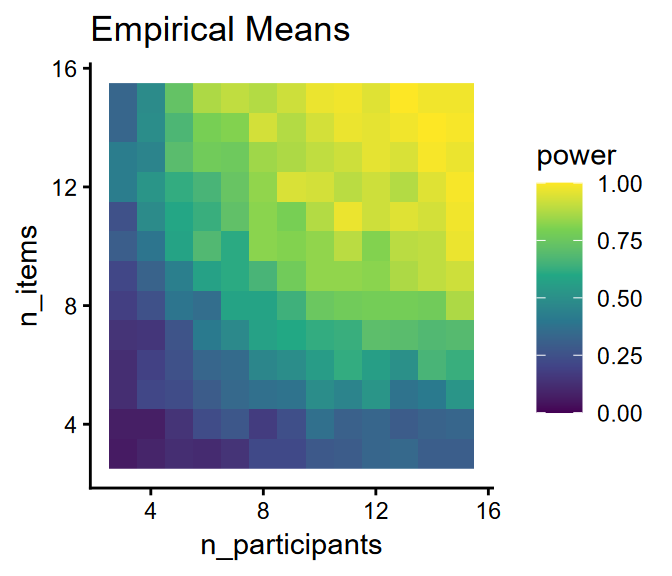
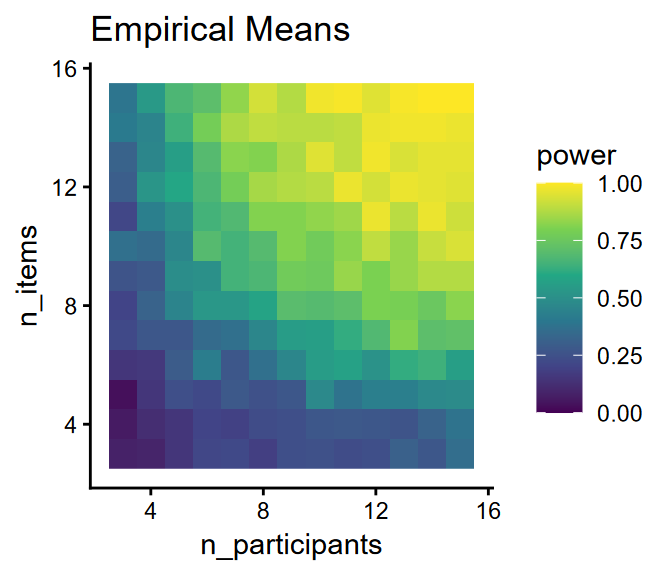
scale at level of items and fix typo

diff --git a/docs/05-power_analyses.html b/docs/05-power_analyses.html
@@ -549,27 +549,27 @@ e_{ip} &amp;\sim \mathcal{N}(0, \sigma_e)
 <span id="cb7-11"><a href="#cb7-11" aria-hidden="true" tabindex="-1"></a>  items <span class="ot">&lt;-</span> <span class="fu">tibble</span>(</span>
 <span id="cb7-12"><a href="#cb7-12" aria-hidden="true" tabindex="-1"></a>    <span class="at">i_id =</span> <span class="dv">1</span><span class="sc">:</span>n_items,</span>
 <span id="cb7-13"><a href="#cb7-13" aria-hidden="true" tabindex="-1"></a>    <span class="at">zipf =</span> <span class="fu">runif</span>(n_items, <span class="fl">1.5</span>, <span class="fl">7.5</span>),</span>
-<span id="cb7-14"><a href="#cb7-14" aria-hidden="true" tabindex="-1"></a>    <span class="at">I_0i =</span> <span class="fu">rnorm</span>(n_items, <span class="dv">0</span>, s_I0)</span>
-<span id="cb7-15"><a href="#cb7-15" aria-hidden="true" tabindex="-1"></a>  )</span>
-<span id="cb7-16"><a href="#cb7-16" aria-hidden="true" tabindex="-1"></a>  </span>
-<span id="cb7-17"><a href="#cb7-17" aria-hidden="true" tabindex="-1"></a>  <span class="co"># simulate participants</span></span>
-<span id="cb7-18"><a href="#cb7-18" aria-hidden="true" tabindex="-1"></a>  participants <span class="ot">&lt;-</span> <span class="fu">rnorm_multi</span>(</span>
-<span id="cb7-19"><a href="#cb7-19" aria-hidden="true" tabindex="-1"></a>    <span class="at">n =</span> n_participants,</span>
-<span id="cb7-20"><a href="#cb7-20" aria-hidden="true" tabindex="-1"></a>    <span class="at">vars =</span> <span class="dv">2</span>,</span>
-<span id="cb7-21"><a href="#cb7-21" aria-hidden="true" tabindex="-1"></a>    <span class="at">varnames =</span> <span class="fu">c</span>(<span class="st">"P_0p"</span>, <span class="st">"P_1p"</span>),</span>
-<span id="cb7-22"><a href="#cb7-22" aria-hidden="true" tabindex="-1"></a>    <span class="at">mu =</span> <span class="fu">c</span>(<span class="dv">0</span>, <span class="dv">0</span>),</span>
-<span id="cb7-23"><a href="#cb7-23" aria-hidden="true" tabindex="-1"></a>    <span class="at">sd =</span> <span class="fu">c</span>(s_P0, s_P1),</span>
-<span id="cb7-24"><a href="#cb7-24" aria-hidden="true" tabindex="-1"></a>    <span class="at">r =</span> r_P</span>
-<span id="cb7-25"><a href="#cb7-25" aria-hidden="true" tabindex="-1"></a>  ) <span class="sc">|&gt;</span></span>
-<span id="cb7-26"><a href="#cb7-26" aria-hidden="true" tabindex="-1"></a>    <span class="fu">mutate</span>(<span class="at">p_id =</span> <span class="dv">1</span><span class="sc">:</span>n_participants)</span>
-<span id="cb7-27"><a href="#cb7-27" aria-hidden="true" tabindex="-1"></a>  </span>
-<span id="cb7-28"><a href="#cb7-28" aria-hidden="true" tabindex="-1"></a>  <span class="co"># generate trials</span></span>
-<span id="cb7-29"><a href="#cb7-29" aria-hidden="true" tabindex="-1"></a>  trials <span class="ot">&lt;-</span> <span class="fu">crossing</span>(items, participants) <span class="sc">|&gt;</span></span>
-<span id="cb7-30"><a href="#cb7-30" aria-hidden="true" tabindex="-1"></a>    <span class="fu">mutate</span>(</span>
-<span id="cb7-31"><a href="#cb7-31" aria-hidden="true" tabindex="-1"></a>      <span class="at">e_ip =</span> <span class="fu">rnorm</span>(<span class="fu">n</span>(), <span class="dv">0</span>, s_e),</span>
-<span id="cb7-32"><a href="#cb7-32" aria-hidden="true" tabindex="-1"></a>      <span class="at">log_rt =</span> b_0 <span class="sc">+</span> I_0i <span class="sc">+</span> P_0p <span class="sc">+</span> (b_1 <span class="sc">+</span> P_1p) <span class="sc">*</span> zipf <span class="sc">+</span> e_ip,</span>
-<span id="cb7-33"><a href="#cb7-33" aria-hidden="true" tabindex="-1"></a>      <span class="co"># also include a scaled version of the zipf variable</span></span>
-<span id="cb7-34"><a href="#cb7-34" aria-hidden="true" tabindex="-1"></a>      <span class="at">zipf_sc =</span> <span class="fu">scale</span>(zipf)</span>
+<span id="cb7-14"><a href="#cb7-14" aria-hidden="true" tabindex="-1"></a>    <span class="at">I_0i =</span> <span class="fu">rnorm</span>(n_items, <span class="dv">0</span>, s_I0),</span>
+<span id="cb7-15"><a href="#cb7-15" aria-hidden="true" tabindex="-1"></a>    <span class="co"># also include a scaled version of the zipf variable</span></span>
+<span id="cb7-16"><a href="#cb7-16" aria-hidden="true" tabindex="-1"></a>    <span class="at">zipf_sc =</span> <span class="fu">scale</span>(zipf)</span>
+<span id="cb7-17"><a href="#cb7-17" aria-hidden="true" tabindex="-1"></a>  )</span>
+<span id="cb7-18"><a href="#cb7-18" aria-hidden="true" tabindex="-1"></a>  </span>
+<span id="cb7-19"><a href="#cb7-19" aria-hidden="true" tabindex="-1"></a>  <span class="co"># simulate participants</span></span>
+<span id="cb7-20"><a href="#cb7-20" aria-hidden="true" tabindex="-1"></a>  participants <span class="ot">&lt;-</span> <span class="fu">rnorm_multi</span>(</span>
+<span id="cb7-21"><a href="#cb7-21" aria-hidden="true" tabindex="-1"></a>    <span class="at">n =</span> n_participants,</span>
+<span id="cb7-22"><a href="#cb7-22" aria-hidden="true" tabindex="-1"></a>    <span class="at">vars =</span> <span class="dv">2</span>,</span>
+<span id="cb7-23"><a href="#cb7-23" aria-hidden="true" tabindex="-1"></a>    <span class="at">varnames =</span> <span class="fu">c</span>(<span class="st">"P_0p"</span>, <span class="st">"P_1p"</span>),</span>
+<span id="cb7-24"><a href="#cb7-24" aria-hidden="true" tabindex="-1"></a>    <span class="at">mu =</span> <span class="fu">c</span>(<span class="dv">0</span>, <span class="dv">0</span>),</span>
+<span id="cb7-25"><a href="#cb7-25" aria-hidden="true" tabindex="-1"></a>    <span class="at">sd =</span> <span class="fu">c</span>(s_P0, s_P1),</span>
+<span id="cb7-26"><a href="#cb7-26" aria-hidden="true" tabindex="-1"></a>    <span class="at">r =</span> r_P</span>
+<span id="cb7-27"><a href="#cb7-27" aria-hidden="true" tabindex="-1"></a>  ) <span class="sc">|&gt;</span></span>
+<span id="cb7-28"><a href="#cb7-28" aria-hidden="true" tabindex="-1"></a>    <span class="fu">mutate</span>(<span class="at">p_id =</span> <span class="dv">1</span><span class="sc">:</span>n_participants)</span>
+<span id="cb7-29"><a href="#cb7-29" aria-hidden="true" tabindex="-1"></a>  </span>
+<span id="cb7-30"><a href="#cb7-30" aria-hidden="true" tabindex="-1"></a>  <span class="co"># generate trials</span></span>
+<span id="cb7-31"><a href="#cb7-31" aria-hidden="true" tabindex="-1"></a>  trials <span class="ot">&lt;-</span> <span class="fu">crossing</span>(items, participants) <span class="sc">|&gt;</span></span>
+<span id="cb7-32"><a href="#cb7-32" aria-hidden="true" tabindex="-1"></a>    <span class="fu">mutate</span>(</span>
+<span id="cb7-33"><a href="#cb7-33" aria-hidden="true" tabindex="-1"></a>      <span class="at">e_ip =</span> <span class="fu">rnorm</span>(<span class="fu">n</span>(), <span class="dv">0</span>, s_e),</span>
+<span id="cb7-34"><a href="#cb7-34" aria-hidden="true" tabindex="-1"></a>      <span class="at">log_rt =</span> b_0 <span class="sc">+</span> I_0i <span class="sc">+</span> P_0p <span class="sc">+</span> (b_1 <span class="sc">+</span> P_1p) <span class="sc">*</span> zipf <span class="sc">+</span> e_ip</span>
 <span id="cb7-35"><a href="#cb7-35" aria-hidden="true" tabindex="-1"></a>    )</span>
 <span id="cb7-36"><a href="#cb7-36" aria-hidden="true" tabindex="-1"></a>  </span>
 <span id="cb7-37"><a href="#cb7-37" aria-hidden="true" tabindex="-1"></a>  <span class="co"># return the simulated trials</span></span>
@@ -584,18 +584,18 @@ e_{ip} &amp;\sim \mathcal{N}(0, \sigma_e)
 <div class="code-copy-outer-scaffold"><div class="sourceCode cell-code" id="cb8"><pre class="sourceCode r code-with-copy"><code class="sourceCode r"><span id="cb8-1"><a href="#cb8-1" aria-hidden="true" tabindex="-1"></a><span class="fu">sim_trials</span>()</span></code></pre></div><button title="Copy to Clipboard" class="code-copy-button"><i class="bi"></i></button></div>
 <div class="cell-output cell-output-stdout">
 <pre><code># A tibble: 1,500 × 9
-    i_id  zipf    I_0i    P_0p      P_1p  p_id    e_ip log_rt zipf_sc[,1]
-   &lt;int&gt; &lt;dbl&gt;   &lt;dbl&gt;   &lt;dbl&gt;     &lt;dbl&gt; &lt;int&gt;   &lt;dbl&gt;  &lt;dbl&gt;       &lt;dbl&gt;
- 1     1  7.45 -0.0200 -0.277   0.0509      25  0.188    6.37        1.68
- 2     1  7.45 -0.0200 -0.244   0.0584      22  0.262    6.54        1.68
- 3     1  7.45 -0.0200 -0.210   0.0564       5 -0.276    6.02        1.68
- 4     1  7.45 -0.0200 -0.154   0.0106       4  0.0740   6.08        1.68
- 5     1  7.45 -0.0200 -0.148   0.0143      17 -0.768    5.27        1.68
- 6     1  7.45 -0.0200 -0.101   0.000337    14  0.133    6.12        1.68
- 7     1  7.45 -0.0200 -0.0962  0.0139      10 -0.0169   6.08        1.68
- 8     1  7.45 -0.0200 -0.0948  0.00490     16  0.0814   6.11        1.68
- 9     1  7.45 -0.0200 -0.0740 -0.0387       6 -0.310    5.41        1.68
-10     1  7.45 -0.0200 -0.0680  0.0907       1  0.132    6.82        1.68
+    i_id  zipf    I_0i zipf_sc[,1]    P_0p      P_1p  p_id    e_ip log_rt
+   &lt;int&gt; &lt;dbl&gt;   &lt;dbl&gt;       &lt;dbl&gt;   &lt;dbl&gt;     &lt;dbl&gt; &lt;int&gt;   &lt;dbl&gt;  &lt;dbl&gt;
+ 1     1  7.45 -0.0200        1.66 -0.277   0.0509      25  0.188    6.37
+ 2     1  7.45 -0.0200        1.66 -0.244   0.0584      22  0.262    6.54
+ 3     1  7.45 -0.0200        1.66 -0.210   0.0564       5 -0.276    6.02
+ 4     1  7.45 -0.0200        1.66 -0.154   0.0106       4  0.0740   6.08
+ 5     1  7.45 -0.0200        1.66 -0.148   0.0143      17 -0.768    5.27
+ 6     1  7.45 -0.0200        1.66 -0.101   0.000337    14  0.133    6.12
+ 7     1  7.45 -0.0200        1.66 -0.0962  0.0139      10 -0.0169   6.08
+ 8     1  7.45 -0.0200        1.66 -0.0948  0.00490     16  0.0814   6.11
+ 9     1  7.45 -0.0200        1.66 -0.0740 -0.0387       6 -0.310    5.41
+10     1  7.45 -0.0200        1.66 -0.0680  0.0907       1  0.132    6.82
 # ℹ 1,490 more rows</code></pre>
 </div>
 </div>
@@ -604,18 +604,18 @@ e_{ip} &amp;\sim \mathcal{N}(0, \sigma_e)
 <div class="code-copy-outer-scaffold"><div class="sourceCode cell-code" id="cb10"><pre class="sourceCode r code-with-copy"><code class="sourceCode r"><span id="cb10-1"><a href="#cb10-1" aria-hidden="true" tabindex="-1"></a><span class="fu">sim_trials</span>(<span class="at">n_participants=</span><span class="dv">250</span>, <span class="at">s_P0=</span><span class="fl">0.3</span>)</span></code></pre></div><button title="Copy to Clipboard" class="code-copy-button"><i class="bi"></i></button></div>
 <div class="cell-output cell-output-stdout">
 <pre><code># A tibble: 12,500 × 9
-    i_id  zipf    I_0i   P_0p   P_1p  p_id    e_ip log_rt zipf_sc[,1]
-   &lt;int&gt; &lt;dbl&gt;   &lt;dbl&gt;  &lt;dbl&gt;  &lt;dbl&gt; &lt;int&gt;   &lt;dbl&gt;  &lt;dbl&gt;       &lt;dbl&gt;
- 1     1  6.19 -0.0292 -0.813 0.0250   192 -0.255    5.29        1.14
- 2     1  6.19 -0.0292 -0.705 0.0740   160 -0.254    5.70        1.14
- 3     1  6.19 -0.0292 -0.696 0.0189   176  0.0524   5.68        1.14
- 4     1  6.19 -0.0292 -0.673 0.109    117  0.0154   6.22        1.14
- 5     1  6.19 -0.0292 -0.668 0.0938   123 -0.113    6.00        1.14
- 6     1  6.19 -0.0292 -0.611 0.0566   145  0.349    6.29        1.14
- 7     1  6.19 -0.0292 -0.585 0.0249    83  0.405    6.18        1.14
- 8     1  6.19 -0.0292 -0.566 0.0239   135  0.0432   5.83        1.14
- 9     1  6.19 -0.0292 -0.534 0.0466   209  0.268    6.22        1.14
-10     1  6.19 -0.0292 -0.520 0.0877   110 -0.553    5.67        1.14
+    i_id  zipf    I_0i zipf_sc[,1]   P_0p   P_1p  p_id    e_ip log_rt
+   &lt;int&gt; &lt;dbl&gt;   &lt;dbl&gt;       &lt;dbl&gt;  &lt;dbl&gt;  &lt;dbl&gt; &lt;int&gt;   &lt;dbl&gt;  &lt;dbl&gt;
+ 1     1  6.19 -0.0292        1.13 -0.813 0.0250   192 -0.255    5.29
+ 2     1  6.19 -0.0292        1.13 -0.705 0.0740   160 -0.254    5.70
+ 3     1  6.19 -0.0292        1.13 -0.696 0.0189   176  0.0524   5.68
+ 4     1  6.19 -0.0292        1.13 -0.673 0.109    117  0.0154   6.22
+ 5     1  6.19 -0.0292        1.13 -0.668 0.0938   123 -0.113    6.00
+ 6     1  6.19 -0.0292        1.13 -0.611 0.0566   145  0.349    6.29
+ 7     1  6.19 -0.0292        1.13 -0.585 0.0249    83  0.405    6.18
+ 8     1  6.19 -0.0292        1.13 -0.566 0.0239   135  0.0432   5.83
+ 9     1  6.19 -0.0292        1.13 -0.534 0.0466   209  0.268    6.22
+10     1  6.19 -0.0292        1.13 -0.520 0.0877   110 -0.553    5.67
 # ℹ 12,490 more rows</code></pre>
 </div>
 </div>
@@ -668,7 +668,7 @@ lmerModLmerTest]
 Formula: log_rt ~ 1 + zipf_sc + (1 | i_id) + (1 + zipf_sc | p_id)
    Data: trials
 
-REML criterion at convergence: 1083.5
+REML criterion at convergence: 1083.4
 
 Scaled residuals: 
     Min      1Q  Median      3Q     Max 
@@ -678,14 +678,14 @@ Random effects:
  Groups   Name        Variance Std.Dev. Corr 
  i_id     (Intercept) 0.012143 0.11019       
  p_id     (Intercept) 0.016894 0.12998       
-          zipf_sc     0.004242 0.06513  0.35 
+          zipf_sc     0.004326 0.06578  0.35 
  Residual             0.107116 0.32729       
 Number of obs: 1500, groups:  i_id, 50; p_id, 30
 
 Fixed effects:
             Estimate Std. Error       df t value Pr(&gt;|t|)    
-(Intercept)  6.46078    0.02962 48.27954 218.118  &lt; 2e-16 ***
-zipf_sc     -0.17354    0.02135 57.31075  -8.128 4.06e-11 ***
+(Intercept)  6.46078    0.02962 48.27788 218.115  &lt; 2e-16 ***
+zipf_sc     -0.17525    0.02156 57.30893  -8.128 4.06e-11 ***
 ---
 Signif. codes:  0 '***' 0.001 '**' 0.01 '*' 0.05 '.' 0.1 ' ' 1
 
@@ -701,8 +701,8 @@ zipf_sc 0.155 </code></pre>
 <pre><code># A tibble: 2 × 7
   effect term        estimate std.error statistic    df  p.value
   &lt;chr&gt;  &lt;chr&gt;          &lt;dbl&gt;     &lt;dbl&gt;     &lt;dbl&gt; &lt;dbl&gt;    &lt;dbl&gt;
-1 fixed  (Intercept)    6.46     0.0296    218.    48.3 6.06e-74
-2 fixed  zipf_sc       -0.174    0.0214     -8.13  57.3 4.06e-11</code></pre>
+1 fixed  (Intercept)    6.46     0.0296    218.    48.3 6.09e-74
+2 fixed  zipf_sc       -0.175    0.0216     -8.13  57.3 4.06e-11</code></pre>
 </div>
 </div>
 </section>
@@ -780,16 +780,16 @@ zipf_sc 0.155 </code></pre>
 <pre><code># A tibble: 250 × 13
    effect term    estimate std.error statistic    df    p.value sim_nr converged
    &lt;chr&gt;  &lt;chr&gt;      &lt;dbl&gt;     &lt;dbl&gt;     &lt;dbl&gt; &lt;dbl&gt;      &lt;dbl&gt;  &lt;int&gt; &lt;lgl&gt;    
- 1 fixed  zipf_sc  -0.0641    0.0161     -3.99  70.1 0.000158        1 TRUE     
- 2 fixed  zipf_sc  -0.0321    0.0158     -2.03  71.1 0.0465          2 TRUE     
- 3 fixed  zipf_sc  -0.0378    0.0179     -2.12  74.8 0.0376          3 TRUE     
- 4 fixed  zipf_sc  -0.0643    0.0143     -4.50  61.7 0.0000301       4 TRUE     
- 5 fixed  zipf_sc  -0.0735    0.0153     -4.81  68.0 0.00000871      5 TRUE     
- 6 fixed  zipf_sc  -0.0503    0.0162     -3.11  62.1 0.00285         6 TRUE     
- 7 fixed  zipf_sc  -0.0572    0.0172     -3.32  73.2 0.00140         7 TRUE     
- 8 fixed  zipf_sc  -0.0598    0.0188     -3.18  75.3 0.00214         8 TRUE     
- 9 fixed  zipf_sc  -0.0431    0.0183     -2.36  76.0 0.0211          9 TRUE     
-10 fixed  zipf_sc  -0.0774    0.0168     -4.62  69.6 0.0000172      10 TRUE     
+ 1 fixed  zipf_sc  -0.0647    0.0162     -3.99  70.1 0.000158        1 TRUE     
+ 2 fixed  zipf_sc  -0.0324    0.0160     -2.03  71.1 0.0465          2 TRUE     
+ 3 fixed  zipf_sc  -0.0382    0.0181     -2.12  74.8 0.0376          3 TRUE     
+ 4 fixed  zipf_sc  -0.0649    0.0144     -4.51  61.7 0.0000301       4 TRUE     
+ 5 fixed  zipf_sc  -0.0742    0.0154     -4.81  68.0 0.00000869      5 TRUE     
+ 6 fixed  zipf_sc  -0.0508    0.0164     -3.11  62.1 0.00285         6 TRUE     
+ 7 fixed  zipf_sc  -0.0577    0.0174     -3.32  73.2 0.00140         7 TRUE     
+ 8 fixed  zipf_sc  -0.0604    0.0190     -3.18  75.3 0.00214         8 TRUE     
+ 9 fixed  zipf_sc  -0.0435    0.0185     -2.36  76.0 0.0210          9 TRUE     
+10 fixed  zipf_sc  -0.0781    0.0169     -4.62  69.6 0.0000172      10 TRUE     
 # ℹ 240 more rows
 # ℹ 4 more variables: removed_rcs &lt;lgl&gt;, n_items &lt;dbl&gt;, n_participants &lt;dbl&gt;,
 #   b_1 &lt;dbl&gt;</code></pre>
@@ -799,11 +799,10 @@ zipf_sc 0.155 </code></pre>
 <div class="cell">
 <div class="code-copy-outer-scaffold"><div class="sourceCode cell-code" id="cb23"><pre class="sourceCode r code-with-copy"><code class="sourceCode r"><span id="cb23-1"><a href="#cb23-1" aria-hidden="true" tabindex="-1"></a><span class="fu">count</span>(sims_df, removed_rcs)</span></code></pre></div><button title="Copy to Clipboard" class="code-copy-button"><i class="bi"></i></button></div>
 <div class="cell-output cell-output-stdout">
-<pre><code># A tibble: 2 × 2
+<pre><code># A tibble: 1 × 2
   removed_rcs     n
   &lt;lgl&gt;       &lt;int&gt;
-1 FALSE         245
-2 TRUE            5</code></pre>
+1 FALSE         250</code></pre>
 </div>
 </div>
 <p>We can also see that removing correlations from these 5 models did address convergence issues, because in the final check, all models converged.</p>